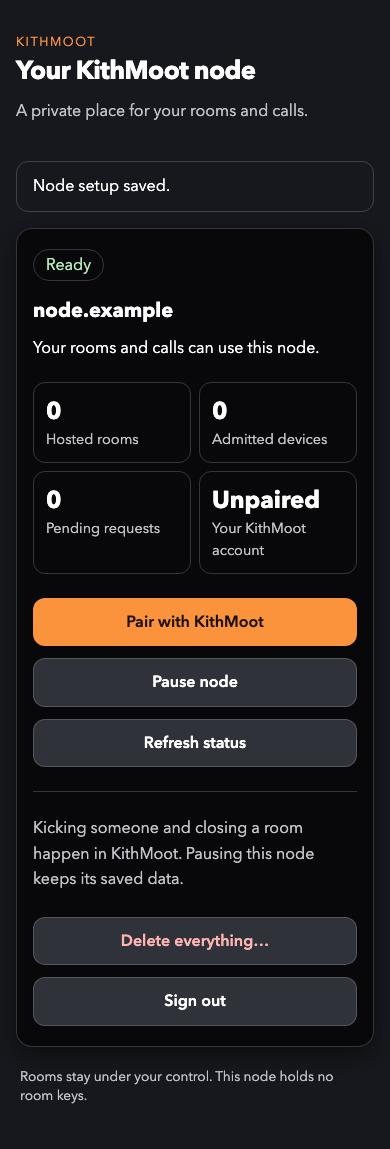
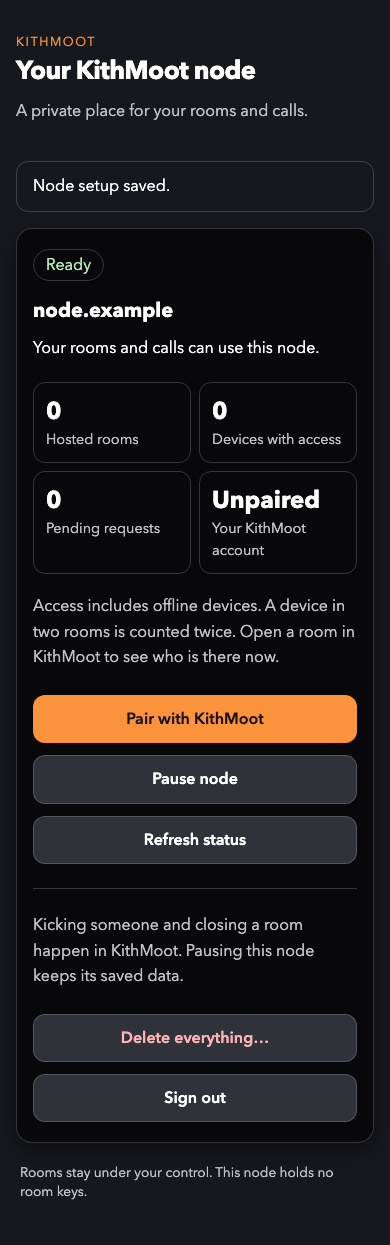
Keep active node controls signed in and clarify device access

Changed region(s): [[0.0308, 0.0305, 0.9231, 0.9748], [0.8923, 0.396, 0.9231, 0.4265], [0.4615, 0.396, 0.4923, 0.4265]]

diff --git a/docs/kithmoot-node-demo-review.md b/docs/kithmoot-node-demo-review.md
@@ -32,6 +32,20 @@ The public certificate covers `demo.forgesworn.dev` and
 External callers receive only the room node's explicit API and authenticated
 TURN transports. Existing Spry ports and app data are retained.
 
+## Controls sessions
+
+The controls sign out after 30 minutes without user activity, with an absolute
+eight-hour limit. Tokens stay in this tab’s memory. Automatic status polling
+does not extend the timeout; explicit use does. Signing out revokes the controls
+token. Session expiry and sign-out do not stop rooms or calls. TURN logins retain
+their separate maximum five-minute lifetime. The session policy passes 17
+controller/control-socket checks, including clock rollback and the hard limit.
+
+The status label is **Devices with access**. It includes offline devices and
+counts a device separately in each room. It is not a live people count. The
+KithMoot room shows current participants. Temporary test-browser permissions
+remain until the room manager removes them or closes the test room.
+
 ## Devices and connections
 
 “Your KithMoot account” replaces “keeper device” in the controls. Open the

diff --git a/experimental/kithmoot-node/README.md b/experimental/kithmoot-node/README.md
@@ -8,7 +8,10 @@ The controller sets up and runs the existing node supervisor as uid/gid 1000.
 It signs no room grants and stores no room keys. Archy owns its HTTPS/TURN TLS
 front and certificate keys; the app has no certificate mount or root commands.
 The operator UI uses Archy's app gate, then a body-bound NIP-98 proof from a
-declared node identity. Its five-minute session stays in browser memory.
+declared node identity. Its controls token stays in browser memory. Explicit use extends its 30-minute
+inactivity timeout, up to an eight-hour absolute limit. Status polling alone
+does not keep it alive. Signing out revokes that token without stopping rooms
+or calls. TURN logins remain limited to five minutes.
 Changing the host's declared identities requires recreating the container so
 its derived identity list is current. The outer app gate still checks host
 sessions on each request. Guest room admission remains in the keeper's app.
